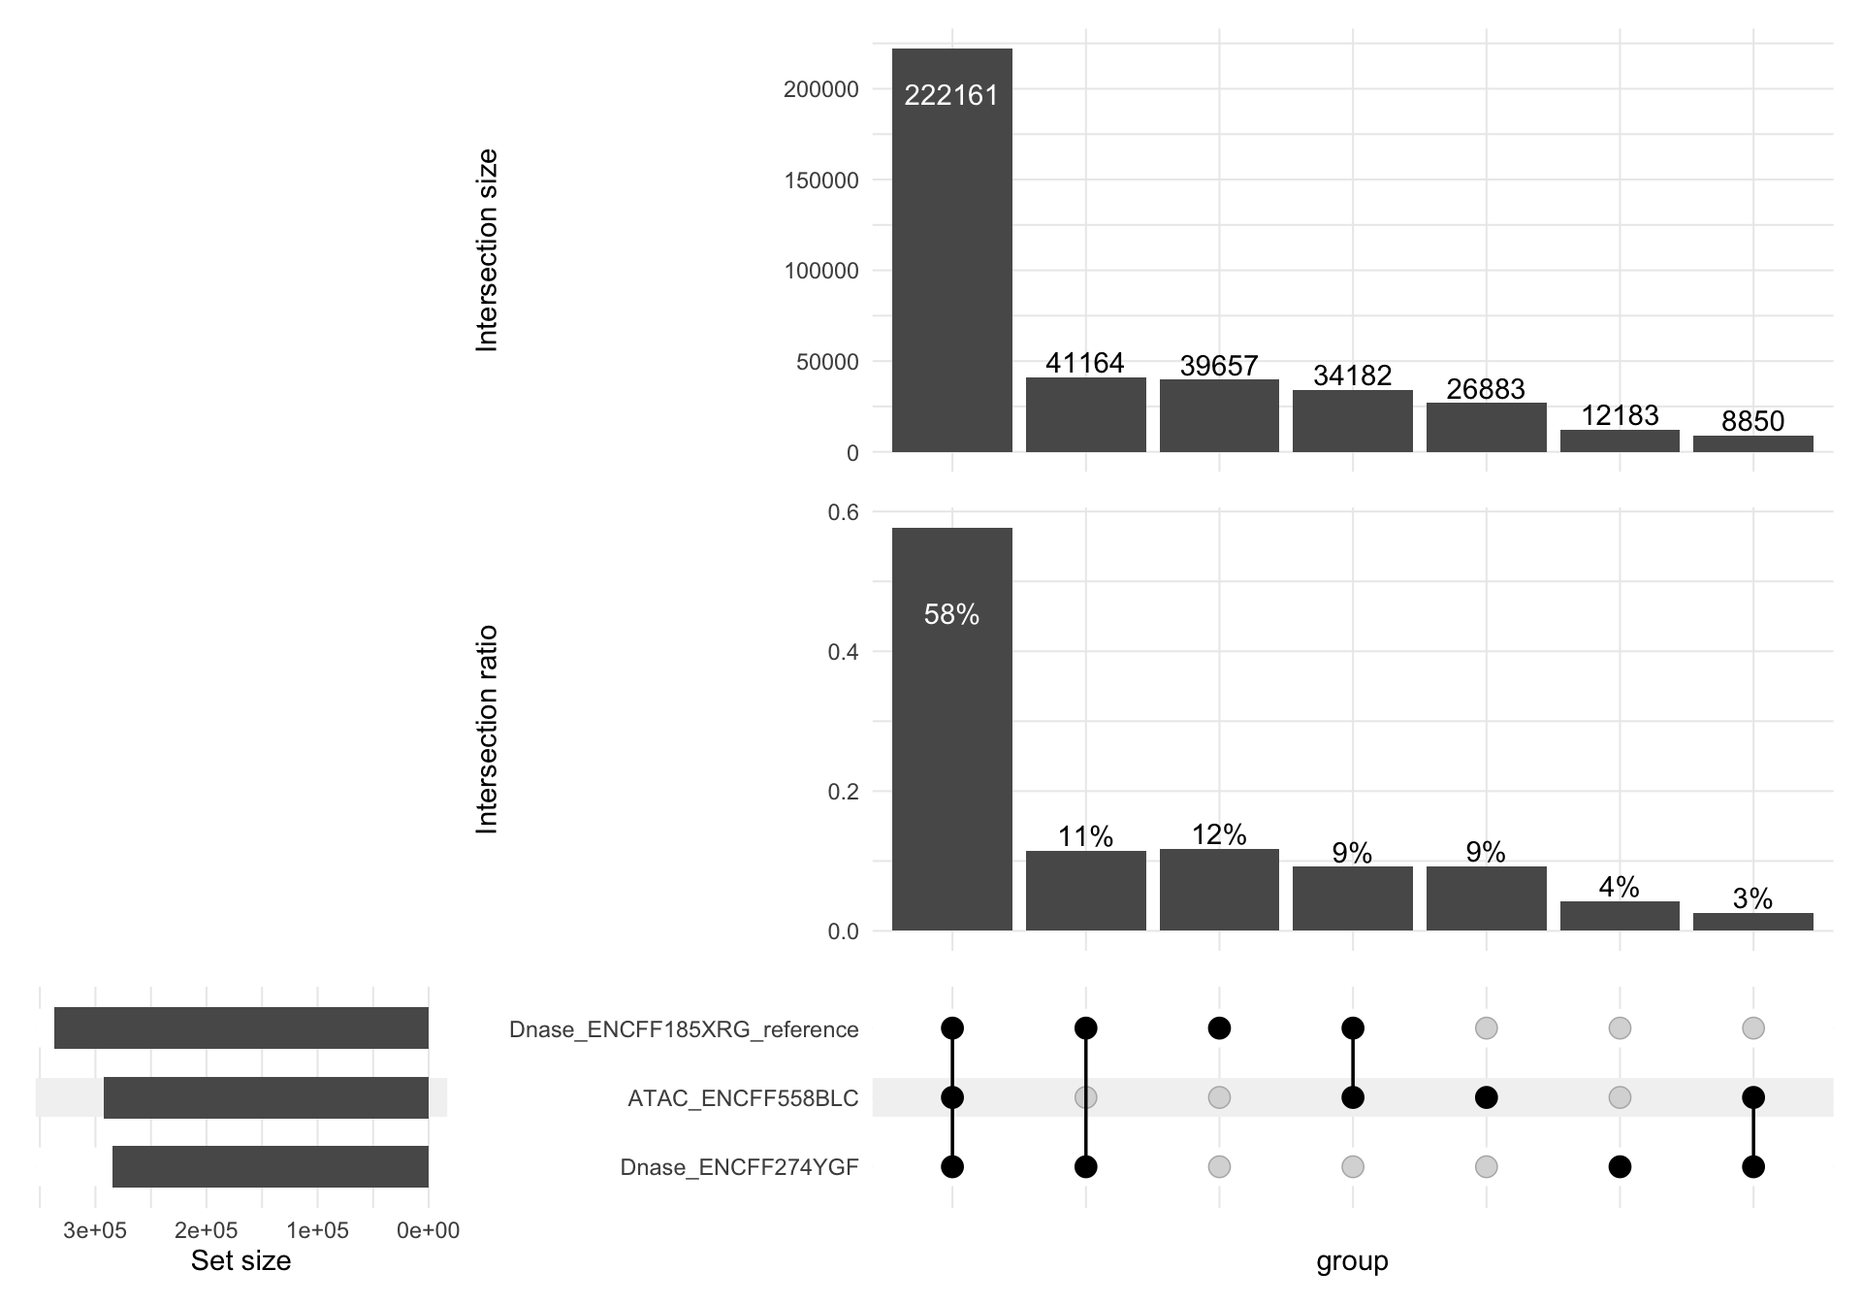
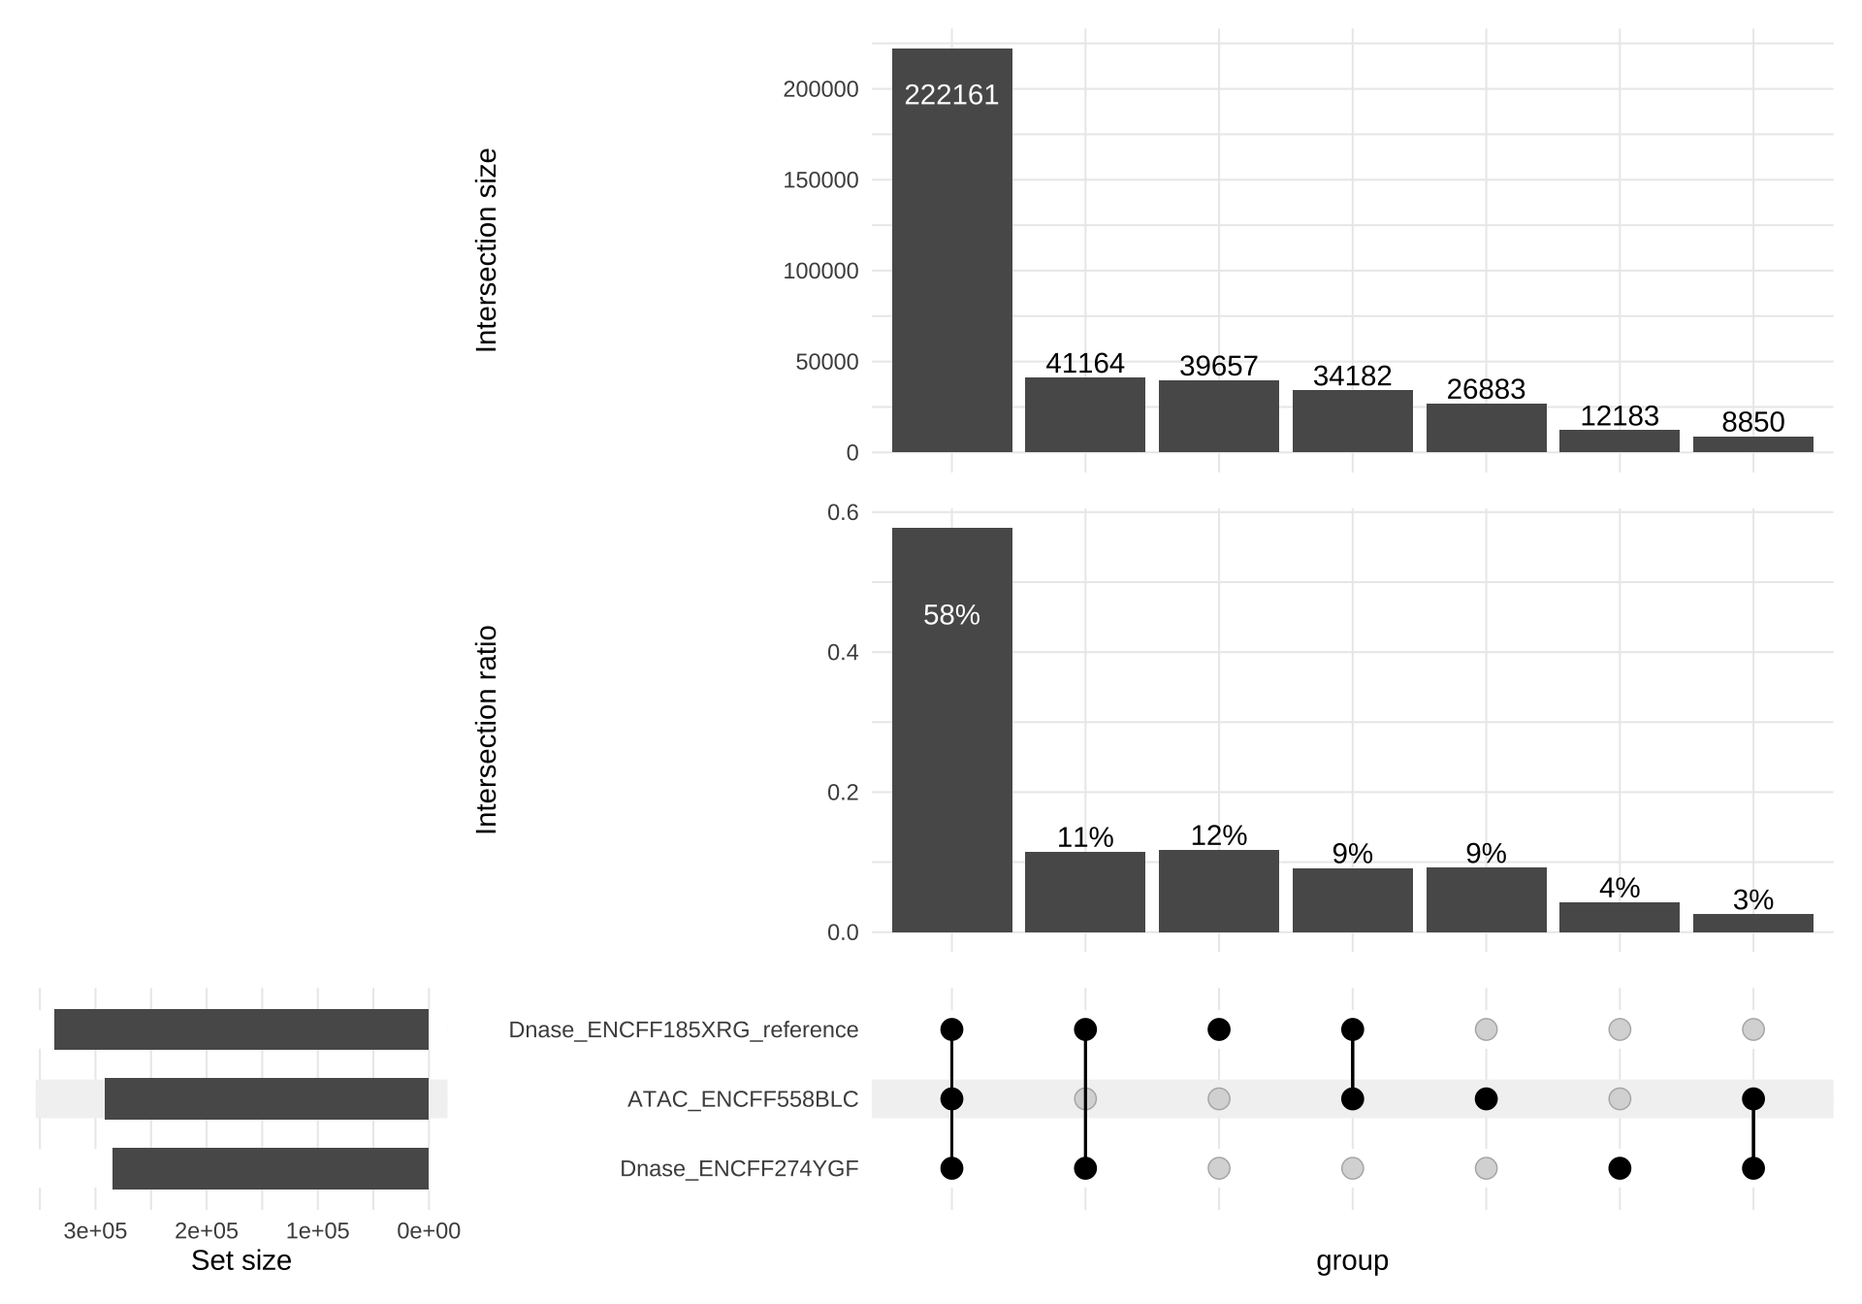
Update results

diff --git a/reports/atac_dnase_example/EpiCompare_file/stat_plot.html b/reports/atac_dnase_example/EpiCompare_file/stat_plot.html
@@ -14,7 +14,7 @@
 
 </head>
 <body>
-<div class="plotly html-widget html-fill-item-overflow-hidden html-fill-item" id="htmlwidget-bbc86e816c4fb5cfed13" style="width:100%;height:400px;"></div>
-<script type="application/json" data-for="htmlwidget-bbc86e816c4fb5cfed13">{"x":{"data":[{"orientation":"h","width":[0.9,0.9],"base":[0,0],"x":[61.7195200813677,62.3894222015734],"y":[1,2],"text":["tSample: ATAC_ENCFF558BLC<br />percent_overlap: 61.71952<br />p.adjust: 0.01960784","tSample: Dnase_ENCFF274YGF<br />percent_overlap: 62.38942<br />p.adjust: 0.01960784"],"type":"bar","textposition":"none","marker":{"autocolorscale":false,"color":"rgba(182,56,117,0.7451)","line":{"width":1.88976377952756,"color":"transparent"}},"showlegend":false,"xaxis":"x","yaxis":"y","hoverinfo":"text","frame":null},{"x":[1],"y":[0],"name":"99_5c079ac126189d8f4a812d4f6a2f7ea7","type":"scatter","mode":"markers","opacity":0,"hoverinfo":"skip","showlegend":false,"marker":{"color":[0,1],"colorscale":[[0.5,"#B63875BF"],[0.5,"#B63875BF"],[0.5,"#B63875BF"],[0.5,"#B63875BF"],[0.5,"#B63875BF"],[0.5,"#B63875BF"],[0.5,"#B63875BF"],[0.5,"#B63875BF"],[0.5,"#B63875BF"],[0.5,"#B63875BF"],[0.5,"#B63875BF"],[0.5,"#B63875BF"],[0.5,"#B63875BF"],[0.5,"#B63875BF"],[0.5,"#B63875BF"],[0.5,"#B63875BF"],[0.5,"#B63875BF"],[0.5,"#B63875BF"],[0.5,"#B63875BF"],[0.5,"#B63875BF"],[0.5,"#B63875BF"],[0.5,"#B63875BF"],[0.5,"#B63875BF"],[0.5,"#B63875BF"],[0.5,"#B63875BF"],[0.5,"#B63875BF"],[0.5,"#B63875BF"],[0.5,"#B63875BF"],[0.5,"#B63875BF"],[0.5,"#B63875BF"],[0.5,"#B63875BF"],[0.5,"#B63875BF"],[0.5,"#B63875BF"],[0.5,"#B63875BF"],[0.5,"#B63875BF"],[0.5,"#B63875BF"],[0.5,"#B63875BF"],[0.5,"#B63875BF"],[0.5,"#B63875BF"],[0.5,"#B63875BF"],[0.5,"#B63875BF"],[0.5,"#B63875BF"],[0.5,"#B63875BF"],[0.5,"#B63875BF"],[0.5,"#B63875BF"],[0.5,"#B63875BF"],[0.5,"#B63875BF"],[0.5,"#B63875BF"],[0.5,"#B63875BF"],[0.5,"#B63875BF"],[0.5,"#B63875BF"],[0.5,"#B63875BF"],[0.5,"#B63875BF"],[0.5,"#B63875BF"],[0.5,"#B63875BF"],[0.5,"#B63875BF"],[0.5,"#B63875BF"],[0.5,"#B63875BF"],[0.5,"#B63875BF"],[0.5,"#B63875BF"],[0.5,"#B63875BF"],[0.5,"#B63875BF"],[0.5,"#B63875BF"],[0.5,"#B63875BF"],[0.5,"#B63875BF"],[0.5,"#B63875BF"],[0.5,"#B63875BF"],[0.5,"#B63875BF"],[0.5,"#B63875BF"],[0.5,"#B63875BF"],[0.5,"#B63875BF"],[0.5,"#B63875BF"],[0.5,"#B63875BF"],[0.5,"#B63875BF"],[0.5,"#B63875BF"],[0.5,"#B63875BF"],[0.5,"#B63875BF"],[0.5,"#B63875BF"],[0.5,"#B63875BF"],[0.5,"#B63875BF"],[0.5,"#B63875BF"],[0.5,"#B63875BF"],[0.5,"#B63875BF"],[0.5,"#B63875BF"],[0.5,"#B63875BF"],[0.5,"#B63875BF"],[0.5,"#B63875BF"],[0.5,"#B63875BF"],[0.5,"#B63875BF"],[0.5,"#B63875BF"],[0.5,"#B63875BF"],[0.5,"#B63875BF"],[0.5,"#B63875BF"],[0.5,"#B63875BF"],[0.5,"#B63875BF"],[0.5,"#B63875BF"],[0.5,"#B63875BF"],[0.5,"#B63875BF"],[0.5,"#B63875BF"],[0.5,"#B63875BF"],[0.5,"#B63875BF"],[0.5,"#B63875BF"],[0.5,"#B63875BF"],[0.5,"#B63875BF"],[0.5,"#B63875BF"],[0.5,"#B63875BF"],[0.5,"#B63875BF"],[0.5,"#B63875BF"],[0.5,"#B63875BF"],[0.5,"#B63875BF"],[0.5,"#B63875BF"],[0.5,"#B63875BF"],[0.5,"#B63875BF"],[0.5,"#B63875BF"],[0.5,"#B63875BF"],[0.5,"#B63875BF"],[0.5,"#B63875BF"],[0.5,"#B63875BF"],[0.5,"#B63875BF"],[0.5,"#B63875BF"],[0.5,"#B63875BF"],[0.5,"#B63875BF"],[0.5,"#B63875BF"],[0.5,"#B63875BF"],[0.5,"#B63875BF"],[0.5,"#B63875BF"],[0.5,"#B63875BF"],[0.5,"#B63875BF"],[0.5,"#B63875BF"],[0.5,"#B63875BF"],[0.5,"#B63875BF"],[0.5,"#B63875BF"],[0.5,"#B63875BF"],[0.5,"#B63875BF"],[0.5,"#B63875BF"],[0.5,"#B63875BF"],[0.5,"#B63875BF"],[0.5,"#B63875BF"],[0.5,"#B63875BF"],[0.5,"#B63875BF"],[0.5,"#B63875BF"],[0.5,"#B63875BF"],[0.5,"#B63875BF"],[0.5,"#B63875BF"],[0.5,"#B63875BF"],[0.5,"#B63875BF"],[0.5,"#B63875BF"],[0.5,"#B63875BF"],[0.5,"#B63875BF"],[0.5,"#B63875BF"],[0.5,"#B63875BF"],[0.5,"#B63875BF"],[0.5,"#B63875BF"],[0.5,"#B63875BF"],[0.5,"#B63875BF"],[0.5,"#B63875BF"],[0.5,"#B63875BF"],[0.5,"#B63875BF"],[0.5,"#B63875BF"],[0.5,"#B63875BF"],[0.5,"#B63875BF"],[0.5,"#B63875BF"],[0.5,"#B63875BF"],[0.5,"#B63875BF"],[0.5,"#B63875BF"],[0.5,"#B63875BF"],[0.5,"#B63875BF"],[0.5,"#B63875BF"],[0.5,"#B63875BF"],[0.5,"#B63875BF"],[0.5,"#B63875BF"],[0.5,"#B63875BF"],[0.5,"#B63875BF"],[0.5,"#B63875BF"],[0.5,"#B63875BF"],[0.5,"#B63875BF"],[0.5,"#B63875BF"],[0.5,"#B63875BF"],[0.5,"#B63875BF"],[0.5,"#B63875BF"],[0.5,"#B63875BF"],[0.5,"#B63875BF"],[0.5,"#B63875BF"],[0.5,"#B63875BF"],[0.5,"#B63875BF"],[0.5,"#B63875BF"],[0.5,"#B63875BF"],[0.5,"#B63875BF"],[0.5,"#B63875BF"],[0.5,"#B63875BF"],[0.5,"#B63875BF"],[0.5,"#B63875BF"],[0.5,"#B63875BF"],[0.5,"#B63875BF"],[0.5,"#B63875BF"],[0.5,"#B63875BF"],[0.5,"#B63875BF"],[0.5,"#B63875BF"],[0.5,"#B63875BF"],[0.5,"#B63875BF"],[0.5,"#B63875BF"],[0.5,"#B63875BF"],[0.5,"#B63875BF"],[0.5,"#B63875BF"],[0.5,"#B63875BF"],[0.5,"#B63875BF"],[0.5,"#B63875BF"],[0.5,"#B63875BF"],[0.5,"#B63875BF"],[0.5,"#B63875BF"],[0.5,"#B63875BF"],[0.5,"#B63875BF"],[0.5,"#B63875BF"],[0.5,"#B63875BF"],[0.5,"#B63875BF"],[0.5,"#B63875BF"],[0.5,"#B63875BF"],[0.5,"#B63875BF"],[0.5,"#B63875BF"],[0.5,"#B63875BF"],[0.5,"#B63875BF"],[0.5,"#B63875BF"],[0.5,"#B63875BF"],[0.5,"#B63875BF"],[0.5,"#B63875BF"],[0.5,"#B63875BF"],[0.5,"#B63875BF"],[0.5,"#B63875BF"],[0.5,"#B63875BF"],[0.5,"#B63875BF"],[0.5,"#B63875BF"],[0.5,"#B63875BF"],[0.5,"#B63875BF"],[0.5,"#B63875BF"],[0.5,"#B63875BF"],[0.5,"#B63875BF"],[0.5,"#B63875BF"],[0.5,"#B63875BF"],[0.5,"#B63875BF"],[0.5,"#B63875BF"],[0.5,"#B63875BF"],[0.5,"#B63875BF"],[0.5,"#B63875BF"],[0.5,"#B63875BF"],[0.5,"#B63875BF"],[0.5,"#B63875BF"],[0.5,"#B63875BF"],[0.5,"#B63875BF"],[0.5,"#B63875BF"],[0.5,"#B63875BF"],[0.5,"#B63875BF"],[0.5,"#B63875BF"],[0.5,"#B63875BF"],[0.5,"#B63875BF"],[0.5,"#B63875BF"],[0.5,"#B63875BF"],[0.5,"#B63875BF"],[0.5,"#B63875BF"],[0.5,"#B63875BF"],[0.5,"#B63875BF"],[0.5,"#B63875BF"],[0.5,"#B63875BF"],[0.5,"#B63875BF"],[0.5,"#B63875BF"],[0.5,"#B63875BF"],[0.5,"#B63875BF"],[0.5,"#B63875BF"],[0.5,"#B63875BF"],[0.5,"#B63875BF"],[0.5,"#B63875BF"],[0.5,"#B63875BF"],[0.5,"#B63875BF"],[0.5,"#B63875BF"],[0.5,"#B63875BF"],[0.5,"#B63875BF"],[0.5,"#B63875BF"],[0.5,"#B63875BF"],[0.5,"#B63875BF"],[0.5,"#B63875BF"],[0.5,"#B63875BF"],[0.5,"#B63875BF"],[0.5,"#B63875BF"],[0.5,"#B63875BF"],[0.5,"#B63875BF"],[0.5,"#B63875BF"],[0.5,"#B63875BF"],[0.5,"#B63875BF"],[0.5,"#B63875BF"],[0.5,"#B63875BF"],[0.5,"#B63875BF"],[0.5,"#B63875BF"],[0.5,"#B63875BF"],[0.5,"#B63875BF"],[0.5,"#B63875BF"],[0.5,"#B63875BF"],[0.5,"#B63875BF"],[0.5,"#B63875BF"],[0.5,"#B63875BF"],[0.5,"#B63875BF"],[0.5,"#B63875BF"]],"colorbar":{"bgcolor":"rgba(255,255,255,1)","bordercolor":"transparent","borderwidth":1.88976377952756,"thickness":23.04,"title":"q-value","titlefont":{"color":"rgba(0,0,0,1)","family":"","size":14.6118721461187},"tickmode":"array","ticktext":["0.01960784"],"tickvals":[0.5],"tickfont":{"color":"rgba(0,0,0,1)","family":"","size":11.689497716895},"ticklen":2,"len":0.5}},"xaxis":"x","yaxis":"y","frame":null}],"layout":{"margin":{"t":26.4370515329419,"r":7.30593607305936,"b":40.3913894324853,"l":124.931506849315},"plot_bgcolor":"rgba(255,255,255,1)","paper_bgcolor":"rgba(255,255,255,1)","font":{"color":"rgba(0,0,0,1)","family":"","size":14.6118721461187},"xaxis":{"domain":[0,1],"automargin":true,"type":"linear","autorange":false,"range":[-5,105],"tickmode":"array","ticktext":["0","25","50","75","100"],"tickvals":[0,25,50,75,100],"categoryorder":"array","categoryarray":["0","25","50","75","100"],"nticks":null,"ticks":"outside","tickcolor":"rgba(51,51,51,1)","ticklen":3.65296803652968,"tickwidth":0.66417600664176,"showticklabels":true,"tickfont":{"color":"rgba(77,77,77,1)","family":"","size":11.689497716895},"tickangle":-45,"showline":false,"linecolor":null,"linewidth":0,"showgrid":true,"gridcolor":"rgba(235,235,235,1)","gridwidth":0.66417600664176,"zeroline":false,"anchor":"y","title":{"text":"Percentage overlap (%)","font":{"color":"rgba(0,0,0,1)","family":"","size":14.6118721461187}},"hoverformat":".2f"},"yaxis":{"domain":[0,1],"automargin":true,"type":"linear","autorange":false,"range":[0.4,2.6],"tickmode":"array","ticktext":["ATAC_ENCFF558BLC","Dnase_ENCFF274YGF"],"tickvals":[1,2],"categoryorder":"array","categoryarray":["ATAC_ENCFF558BLC","Dnase_ENCFF274YGF"],"nticks":null,"ticks":"outside","tickcolor":"rgba(51,51,51,1)","ticklen":3.65296803652968,"tickwidth":0.66417600664176,"showticklabels":true,"tickfont":{"color":"rgba(77,77,77,1)","family":"","size":11.689497716895},"tickangle":-0,"showline":false,"linecolor":null,"linewidth":0,"showgrid":true,"gridcolor":"rgba(235,235,235,1)","gridwidth":0.66417600664176,"zeroline":false,"anchor":"x","title":{"text":"Sample","font":{"color":"rgba(0,0,0,1)","family":"","size":14.6118721461187}},"hoverformat":".2f"},"shapes":[{"type":"rect","fillcolor":"transparent","line":{"color":"rgba(51,51,51,1)","width":0.66417600664176,"linetype":"solid"},"yref":"paper","xref":"paper","x0":0,"x1":1,"y0":0,"y1":1}],"showlegend":false,"legend":{"bgcolor":"rgba(255,255,255,1)","bordercolor":"transparent","borderwidth":1.88976377952756,"font":{"color":"rgba(0,0,0,1)","family":"","size":11.689497716895},"title":{"text":"","font":{"color":"rgba(0,0,0,1)","family":"","size":14.6118721461187}}},"hovermode":"closest","barmode":"relative","boxmode":"group"},"config":{"doubleClick":"reset","modeBarButtonsToAdd":["hoverclosest","hovercompare"],"showSendToCloud":false},"source":"A","attrs":{"32675b87a71e":{"x":{},"y":{},"fill":{},"type":"bar"}},"cur_data":"32675b87a71e","visdat":{"32675b87a71e":["function (y) ","x"]},"highlight":{"on":"plotly_click","persistent":false,"dynamic":false,"selectize":false,"opacityDim":0.2,"selected":{"opacity":1},"debounce":0},"shinyEvents":["plotly_hover","plotly_click","plotly_selected","plotly_relayout","plotly_brushed","plotly_brushing","plotly_clickannotation","plotly_doubleclick","plotly_deselect","plotly_afterplot","plotly_sunburstclick"],"base_url":"https://plot.ly"},"evals":[],"jsHooks":[]}</script>
+<div class="plotly html-widget html-fill-item-overflow-hidden html-fill-item" id="htmlwidget-38ecd195e6aef242cc42" style="width:100%;height:400px;"></div>
+<script type="application/json" data-for="htmlwidget-38ecd195e6aef242cc42">{"x":{"data":[{"orientation":"h","width":[0.9,0.9],"base":[0,0],"x":[61.7195200813677,62.3894222015734],"y":[1,2],"text":["tSample: ATAC_ENCFF558BLC<br />percent_overlap: 61.71952<br />p.adjust: 0.01960784","tSample: Dnase_ENCFF274YGF<br />percent_overlap: 62.38942<br />p.adjust: 0.01960784"],"type":"bar","textposition":"none","marker":{"autocolorscale":false,"color":"rgba(182,56,117,0.7451)","line":{"width":1.88976377952756,"color":"transparent"}},"showlegend":false,"xaxis":"x","yaxis":"y","hoverinfo":"text","frame":null},{"x":[1],"y":[0],"name":"99_5c079ac126189d8f4a812d4f6a2f7ea7","type":"scatter","mode":"markers","opacity":0,"hoverinfo":"skip","showlegend":false,"marker":{"color":[0,1],"colorscale":[[0.5,"#B63875BF"],[0.5,"#B63875BF"],[0.5,"#B63875BF"],[0.5,"#B63875BF"],[0.5,"#B63875BF"],[0.5,"#B63875BF"],[0.5,"#B63875BF"],[0.5,"#B63875BF"],[0.5,"#B63875BF"],[0.5,"#B63875BF"],[0.5,"#B63875BF"],[0.5,"#B63875BF"],[0.5,"#B63875BF"],[0.5,"#B63875BF"],[0.5,"#B63875BF"],[0.5,"#B63875BF"],[0.5,"#B63875BF"],[0.5,"#B63875BF"],[0.5,"#B63875BF"],[0.5,"#B63875BF"],[0.5,"#B63875BF"],[0.5,"#B63875BF"],[0.5,"#B63875BF"],[0.5,"#B63875BF"],[0.5,"#B63875BF"],[0.5,"#B63875BF"],[0.5,"#B63875BF"],[0.5,"#B63875BF"],[0.5,"#B63875BF"],[0.5,"#B63875BF"],[0.5,"#B63875BF"],[0.5,"#B63875BF"],[0.5,"#B63875BF"],[0.5,"#B63875BF"],[0.5,"#B63875BF"],[0.5,"#B63875BF"],[0.5,"#B63875BF"],[0.5,"#B63875BF"],[0.5,"#B63875BF"],[0.5,"#B63875BF"],[0.5,"#B63875BF"],[0.5,"#B63875BF"],[0.5,"#B63875BF"],[0.5,"#B63875BF"],[0.5,"#B63875BF"],[0.5,"#B63875BF"],[0.5,"#B63875BF"],[0.5,"#B63875BF"],[0.5,"#B63875BF"],[0.5,"#B63875BF"],[0.5,"#B63875BF"],[0.5,"#B63875BF"],[0.5,"#B63875BF"],[0.5,"#B63875BF"],[0.5,"#B63875BF"],[0.5,"#B63875BF"],[0.5,"#B63875BF"],[0.5,"#B63875BF"],[0.5,"#B63875BF"],[0.5,"#B63875BF"],[0.5,"#B63875BF"],[0.5,"#B63875BF"],[0.5,"#B63875BF"],[0.5,"#B63875BF"],[0.5,"#B63875BF"],[0.5,"#B63875BF"],[0.5,"#B63875BF"],[0.5,"#B63875BF"],[0.5,"#B63875BF"],[0.5,"#B63875BF"],[0.5,"#B63875BF"],[0.5,"#B63875BF"],[0.5,"#B63875BF"],[0.5,"#B63875BF"],[0.5,"#B63875BF"],[0.5,"#B63875BF"],[0.5,"#B63875BF"],[0.5,"#B63875BF"],[0.5,"#B63875BF"],[0.5,"#B63875BF"],[0.5,"#B63875BF"],[0.5,"#B63875BF"],[0.5,"#B63875BF"],[0.5,"#B63875BF"],[0.5,"#B63875BF"],[0.5,"#B63875BF"],[0.5,"#B63875BF"],[0.5,"#B63875BF"],[0.5,"#B63875BF"],[0.5,"#B63875BF"],[0.5,"#B63875BF"],[0.5,"#B63875BF"],[0.5,"#B63875BF"],[0.5,"#B63875BF"],[0.5,"#B63875BF"],[0.5,"#B63875BF"],[0.5,"#B63875BF"],[0.5,"#B63875BF"],[0.5,"#B63875BF"],[0.5,"#B63875BF"],[0.5,"#B63875BF"],[0.5,"#B63875BF"],[0.5,"#B63875BF"],[0.5,"#B63875BF"],[0.5,"#B63875BF"],[0.5,"#B63875BF"],[0.5,"#B63875BF"],[0.5,"#B63875BF"],[0.5,"#B63875BF"],[0.5,"#B63875BF"],[0.5,"#B63875BF"],[0.5,"#B63875BF"],[0.5,"#B63875BF"],[0.5,"#B63875BF"],[0.5,"#B63875BF"],[0.5,"#B63875BF"],[0.5,"#B63875BF"],[0.5,"#B63875BF"],[0.5,"#B63875BF"],[0.5,"#B63875BF"],[0.5,"#B63875BF"],[0.5,"#B63875BF"],[0.5,"#B63875BF"],[0.5,"#B63875BF"],[0.5,"#B63875BF"],[0.5,"#B63875BF"],[0.5,"#B63875BF"],[0.5,"#B63875BF"],[0.5,"#B63875BF"],[0.5,"#B63875BF"],[0.5,"#B63875BF"],[0.5,"#B63875BF"],[0.5,"#B63875BF"],[0.5,"#B63875BF"],[0.5,"#B63875BF"],[0.5,"#B63875BF"],[0.5,"#B63875BF"],[0.5,"#B63875BF"],[0.5,"#B63875BF"],[0.5,"#B63875BF"],[0.5,"#B63875BF"],[0.5,"#B63875BF"],[0.5,"#B63875BF"],[0.5,"#B63875BF"],[0.5,"#B63875BF"],[0.5,"#B63875BF"],[0.5,"#B63875BF"],[0.5,"#B63875BF"],[0.5,"#B63875BF"],[0.5,"#B63875BF"],[0.5,"#B63875BF"],[0.5,"#B63875BF"],[0.5,"#B63875BF"],[0.5,"#B63875BF"],[0.5,"#B63875BF"],[0.5,"#B63875BF"],[0.5,"#B63875BF"],[0.5,"#B63875BF"],[0.5,"#B63875BF"],[0.5,"#B63875BF"],[0.5,"#B63875BF"],[0.5,"#B63875BF"],[0.5,"#B63875BF"],[0.5,"#B63875BF"],[0.5,"#B63875BF"],[0.5,"#B63875BF"],[0.5,"#B63875BF"],[0.5,"#B63875BF"],[0.5,"#B63875BF"],[0.5,"#B63875BF"],[0.5,"#B63875BF"],[0.5,"#B63875BF"],[0.5,"#B63875BF"],[0.5,"#B63875BF"],[0.5,"#B63875BF"],[0.5,"#B63875BF"],[0.5,"#B63875BF"],[0.5,"#B63875BF"],[0.5,"#B63875BF"],[0.5,"#B63875BF"],[0.5,"#B63875BF"],[0.5,"#B63875BF"],[0.5,"#B63875BF"],[0.5,"#B63875BF"],[0.5,"#B63875BF"],[0.5,"#B63875BF"],[0.5,"#B63875BF"],[0.5,"#B63875BF"],[0.5,"#B63875BF"],[0.5,"#B63875BF"],[0.5,"#B63875BF"],[0.5,"#B63875BF"],[0.5,"#B63875BF"],[0.5,"#B63875BF"],[0.5,"#B63875BF"],[0.5,"#B63875BF"],[0.5,"#B63875BF"],[0.5,"#B63875BF"],[0.5,"#B63875BF"],[0.5,"#B63875BF"],[0.5,"#B63875BF"],[0.5,"#B63875BF"],[0.5,"#B63875BF"],[0.5,"#B63875BF"],[0.5,"#B63875BF"],[0.5,"#B63875BF"],[0.5,"#B63875BF"],[0.5,"#B63875BF"],[0.5,"#B63875BF"],[0.5,"#B63875BF"],[0.5,"#B63875BF"],[0.5,"#B63875BF"],[0.5,"#B63875BF"],[0.5,"#B63875BF"],[0.5,"#B63875BF"],[0.5,"#B63875BF"],[0.5,"#B63875BF"],[0.5,"#B63875BF"],[0.5,"#B63875BF"],[0.5,"#B63875BF"],[0.5,"#B63875BF"],[0.5,"#B63875BF"],[0.5,"#B63875BF"],[0.5,"#B63875BF"],[0.5,"#B63875BF"],[0.5,"#B63875BF"],[0.5,"#B63875BF"],[0.5,"#B63875BF"],[0.5,"#B63875BF"],[0.5,"#B63875BF"],[0.5,"#B63875BF"],[0.5,"#B63875BF"],[0.5,"#B63875BF"],[0.5,"#B63875BF"],[0.5,"#B63875BF"],[0.5,"#B63875BF"],[0.5,"#B63875BF"],[0.5,"#B63875BF"],[0.5,"#B63875BF"],[0.5,"#B63875BF"],[0.5,"#B63875BF"],[0.5,"#B63875BF"],[0.5,"#B63875BF"],[0.5,"#B63875BF"],[0.5,"#B63875BF"],[0.5,"#B63875BF"],[0.5,"#B63875BF"],[0.5,"#B63875BF"],[0.5,"#B63875BF"],[0.5,"#B63875BF"],[0.5,"#B63875BF"],[0.5,"#B63875BF"],[0.5,"#B63875BF"],[0.5,"#B63875BF"],[0.5,"#B63875BF"],[0.5,"#B63875BF"],[0.5,"#B63875BF"],[0.5,"#B63875BF"],[0.5,"#B63875BF"],[0.5,"#B63875BF"],[0.5,"#B63875BF"],[0.5,"#B63875BF"],[0.5,"#B63875BF"],[0.5,"#B63875BF"],[0.5,"#B63875BF"],[0.5,"#B63875BF"],[0.5,"#B63875BF"],[0.5,"#B63875BF"],[0.5,"#B63875BF"],[0.5,"#B63875BF"],[0.5,"#B63875BF"],[0.5,"#B63875BF"],[0.5,"#B63875BF"],[0.5,"#B63875BF"],[0.5,"#B63875BF"],[0.5,"#B63875BF"],[0.5,"#B63875BF"],[0.5,"#B63875BF"],[0.5,"#B63875BF"],[0.5,"#B63875BF"],[0.5,"#B63875BF"],[0.5,"#B63875BF"],[0.5,"#B63875BF"],[0.5,"#B63875BF"],[0.5,"#B63875BF"],[0.5,"#B63875BF"],[0.5,"#B63875BF"],[0.5,"#B63875BF"],[0.5,"#B63875BF"],[0.5,"#B63875BF"],[0.5,"#B63875BF"],[0.5,"#B63875BF"],[0.5,"#B63875BF"],[0.5,"#B63875BF"],[0.5,"#B63875BF"],[0.5,"#B63875BF"],[0.5,"#B63875BF"],[0.5,"#B63875BF"],[0.5,"#B63875BF"],[0.5,"#B63875BF"]],"colorbar":{"bgcolor":"rgba(255,255,255,1)","bordercolor":"transparent","borderwidth":1.88976377952756,"thickness":23.04,"title":"q-value","titlefont":{"color":"rgba(0,0,0,1)","family":"","size":14.6118721461187},"tickmode":"array","ticktext":["0.01960784"],"tickvals":[0.5],"tickfont":{"color":"rgba(0,0,0,1)","family":"","size":11.689497716895},"ticklen":2,"len":0.5}},"xaxis":"x","yaxis":"y","frame":null}],"layout":{"margin":{"t":26.4370515329419,"r":7.30593607305936,"b":40.3913894324853,"l":124.931506849315},"plot_bgcolor":"rgba(255,255,255,1)","paper_bgcolor":"rgba(255,255,255,1)","font":{"color":"rgba(0,0,0,1)","family":"","size":14.6118721461187},"xaxis":{"domain":[0,1],"automargin":true,"type":"linear","autorange":false,"range":[-5,105],"tickmode":"array","ticktext":["0","25","50","75","100"],"tickvals":[0,25,50,75,100],"categoryorder":"array","categoryarray":["0","25","50","75","100"],"nticks":null,"ticks":"outside","tickcolor":"rgba(51,51,51,1)","ticklen":3.65296803652968,"tickwidth":0.66417600664176,"showticklabels":true,"tickfont":{"color":"rgba(77,77,77,1)","family":"","size":11.689497716895},"tickangle":-45,"showline":false,"linecolor":null,"linewidth":0,"showgrid":true,"gridcolor":"rgba(235,235,235,1)","gridwidth":0.66417600664176,"zeroline":false,"anchor":"y","title":{"text":"Percentage overlap (%)","font":{"color":"rgba(0,0,0,1)","family":"","size":14.6118721461187}},"hoverformat":".2f"},"yaxis":{"domain":[0,1],"automargin":true,"type":"linear","autorange":false,"range":[0.4,2.6],"tickmode":"array","ticktext":["ATAC_ENCFF558BLC","Dnase_ENCFF274YGF"],"tickvals":[1,2],"categoryorder":"array","categoryarray":["ATAC_ENCFF558BLC","Dnase_ENCFF274YGF"],"nticks":null,"ticks":"outside","tickcolor":"rgba(51,51,51,1)","ticklen":3.65296803652968,"tickwidth":0.66417600664176,"showticklabels":true,"tickfont":{"color":"rgba(77,77,77,1)","family":"","size":11.689497716895},"tickangle":-0,"showline":false,"linecolor":null,"linewidth":0,"showgrid":true,"gridcolor":"rgba(235,235,235,1)","gridwidth":0.66417600664176,"zeroline":false,"anchor":"x","title":{"text":"Sample","font":{"color":"rgba(0,0,0,1)","family":"","size":14.6118721461187}},"hoverformat":".2f"},"shapes":[{"type":"rect","fillcolor":"transparent","line":{"color":"rgba(51,51,51,1)","width":0.66417600664176,"linetype":"solid"},"yref":"paper","xref":"paper","x0":0,"x1":1,"y0":0,"y1":1}],"showlegend":false,"legend":{"bgcolor":"rgba(255,255,255,1)","bordercolor":"transparent","borderwidth":1.88976377952756,"font":{"color":"rgba(0,0,0,1)","family":"","size":11.689497716895},"title":{"text":"","font":{"color":"rgba(0,0,0,1)","family":"","size":14.6118721461187}}},"hovermode":"closest","barmode":"relative","boxmode":"group"},"config":{"doubleClick":"reset","modeBarButtonsToAdd":["hoverclosest","hovercompare"],"showSendToCloud":false},"source":"A","attrs":{"de694811a84a":{"x":{},"y":{},"fill":{},"type":"bar"}},"cur_data":"de694811a84a","visdat":{"de694811a84a":["function (y) ","x"]},"highlight":{"on":"plotly_click","persistent":false,"dynamic":false,"selectize":false,"opacityDim":0.2,"selected":{"opacity":1},"debounce":0},"shinyEvents":["plotly_hover","plotly_click","plotly_selected","plotly_relayout","plotly_brushed","plotly_brushing","plotly_clickannotation","plotly_doubleclick","plotly_deselect","plotly_afterplot","plotly_sunburstclick"],"base_url":"https://plot.ly"},"evals":[],"jsHooks":[]}</script>
 </body>
 </html>
